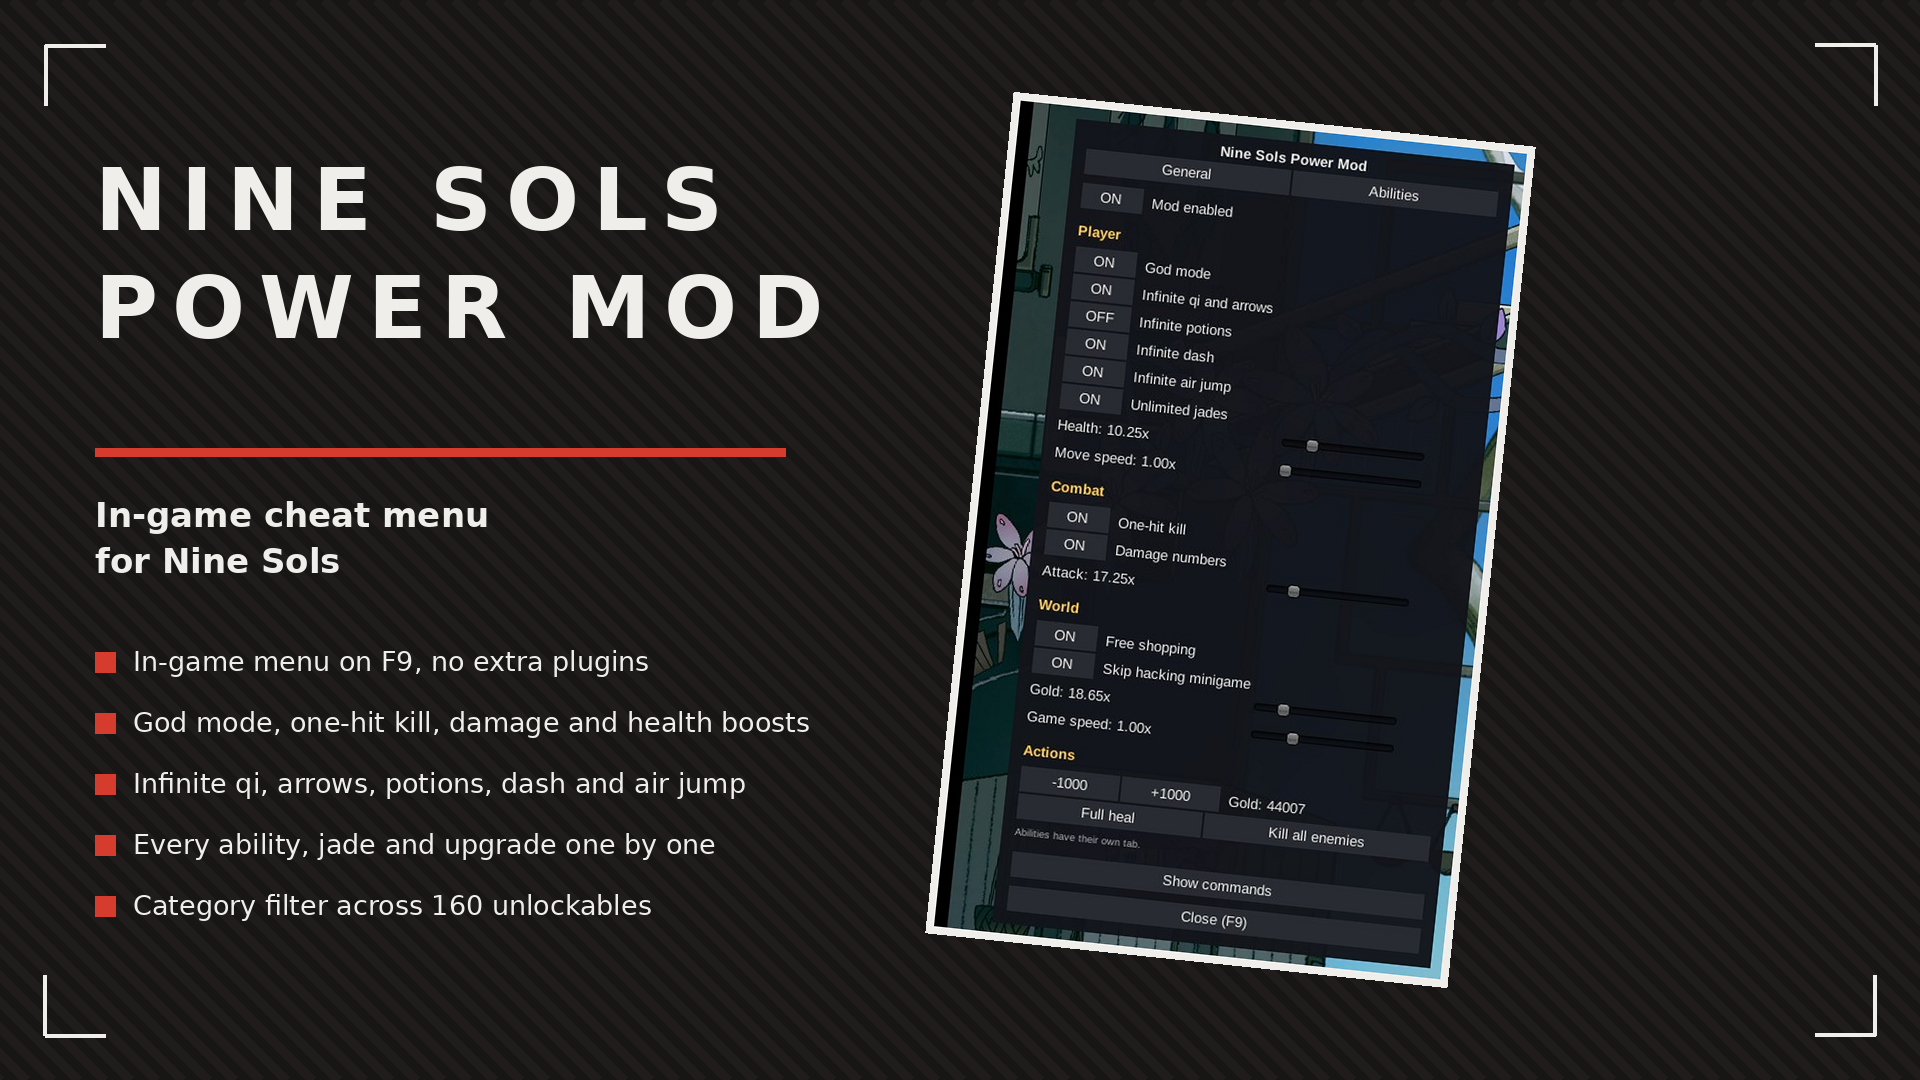
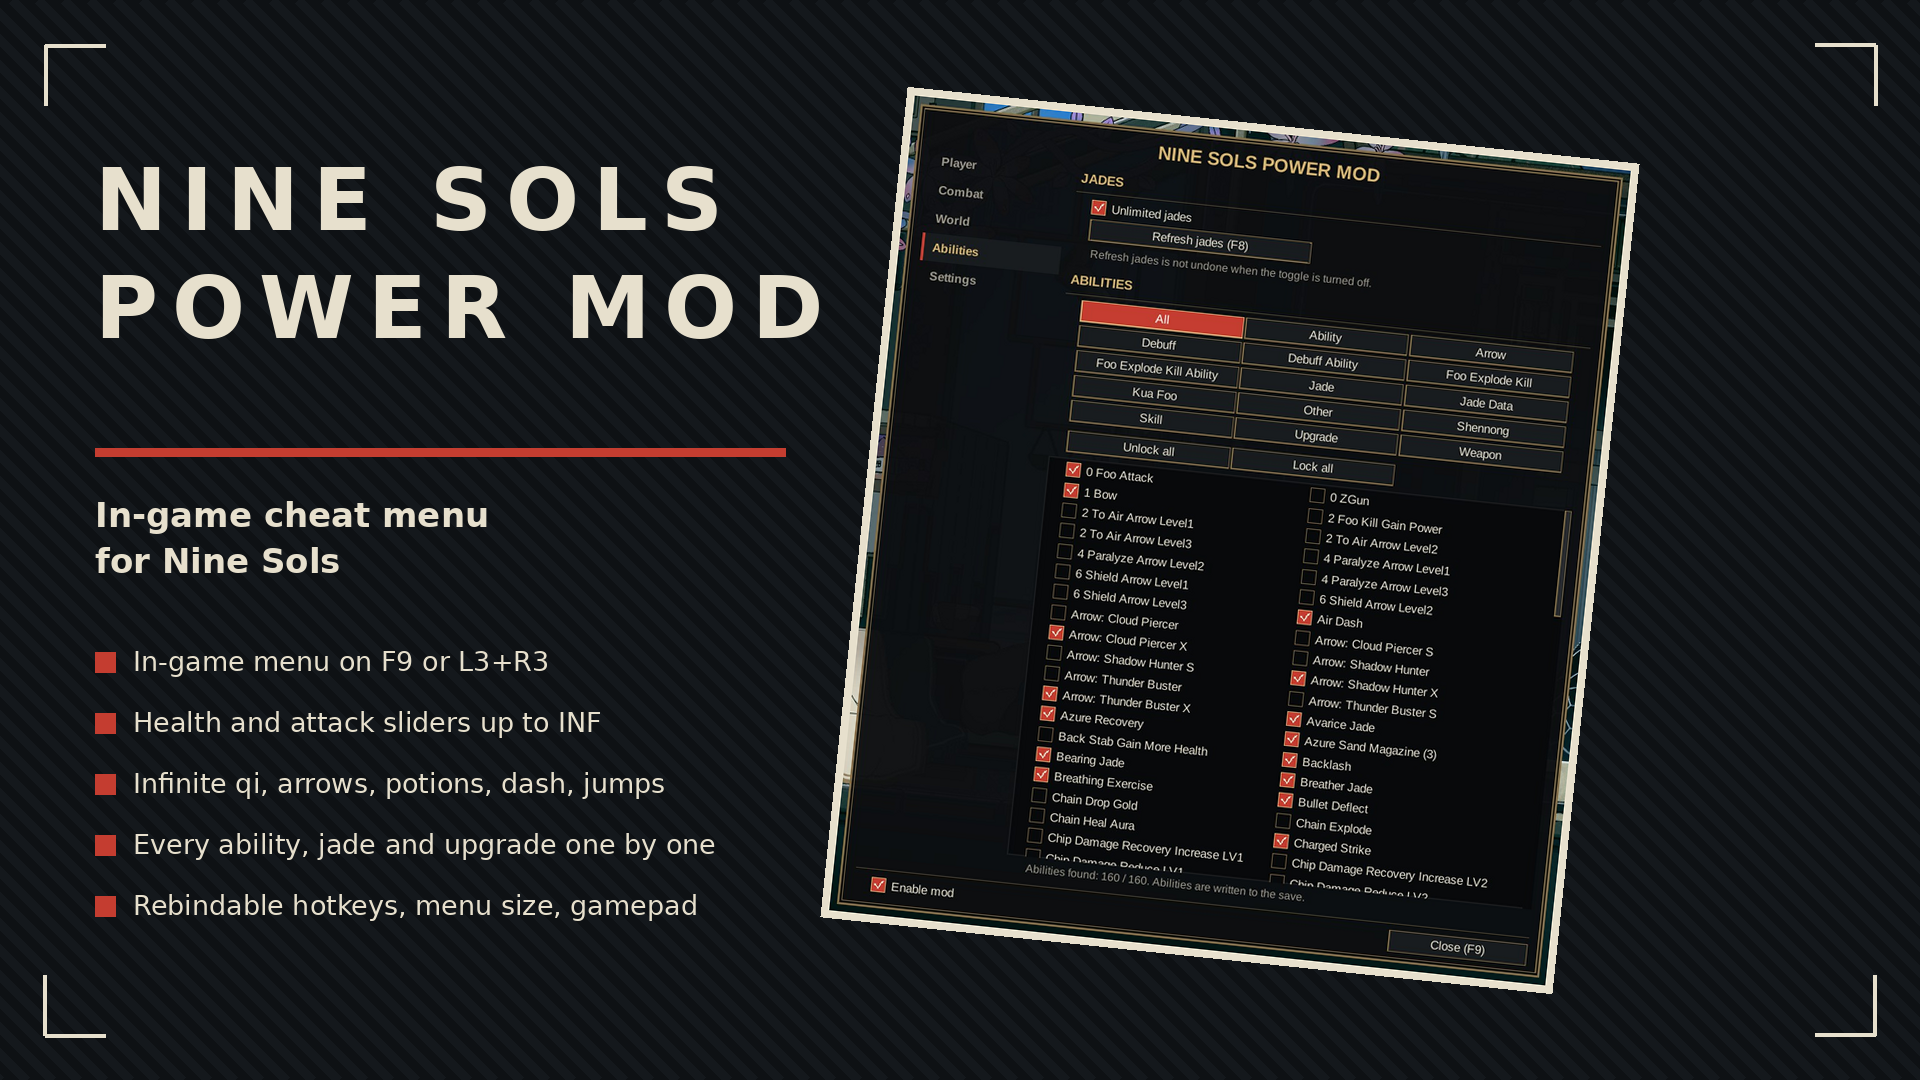
NineSolsPowerMod 2.3.0: tabs on the left, INF sliders, settings tab

diff --git a/NineSols/NineSolsPowerMod/README.md b/NineSols/NineSolsPowerMod/README.md
@@ -7,14 +7,16 @@
 In-game cheat menu for Nine Sols. Press F9 (or L3+R3 on a gamepad), toggle what you want, no restart and no other plugin needed.
 
 ## ✨ Features
-- In-game menu on F9, everything live
+- In-game menu on F9 with tabs for Player, Combat, World, Abilities and Settings
 - Full gamepad control, no mouse needed (see Controls below)
-- God mode, one-hit kill, health / attack / gold multipliers
+- Health and attack sliders from x1 to INF: INF is god mode on health and one-hit kill on attack
+- Fine 0.1 steps for attack, down to x0.1
 - Infinite qi, arrows and potions on separate switches; infinite dash, air jump, unlimited jades
-- Move speed and game speed sliders
-- Free shopping, give gold, damage numbers, skip hacking minigame
-- Full heal, kill all enemies, add or remove gold
+- Gold gain, move speed and game speed sliders
+- Give or remove gold, full heal, kill all enemies, damage numbers, skip hacking minigame
 - Abilities tab: every ability, jade and upgrade on its own switch, filtered by category
+- Settings tab: menu size, rebind every hotkey, gamepad on or off
+- Enable mod switch that turns everything off, game speed included
 
 ## 🎮 Controls
 | Input | Action |
@@ -23,14 +25,15 @@ In-game cheat menu for Nine Sols. Press F9 (or L3+R3 on a gamepad), toggle what 
 | Stick or d-pad | move between options |
 | A | select |
 | B | close |
-| Left / right | adjust the multipliers |
+| Left / right | adjust the sliders |
 | LB / RB | change tab |
 
 ## 📸 Screenshots
-![menu](screenshots/01-menu.png)
-![abilities](screenshots/02-abilities.png)
-![categories](screenshots/03-categories.png)
-![weapons](screenshots/04-weapons.png)
+![player](screenshots/01-player.png)
+![combat](screenshots/02-combat.png)
+![world](screenshots/03-world.png)
+![abilities](screenshots/04-abilities.png)
+![settings](screenshots/05-settings.png)
 
 ## 🌍 Translating
 Texts live in `I18n.cs`, one dictionary per language keyed by the English string. To add a
